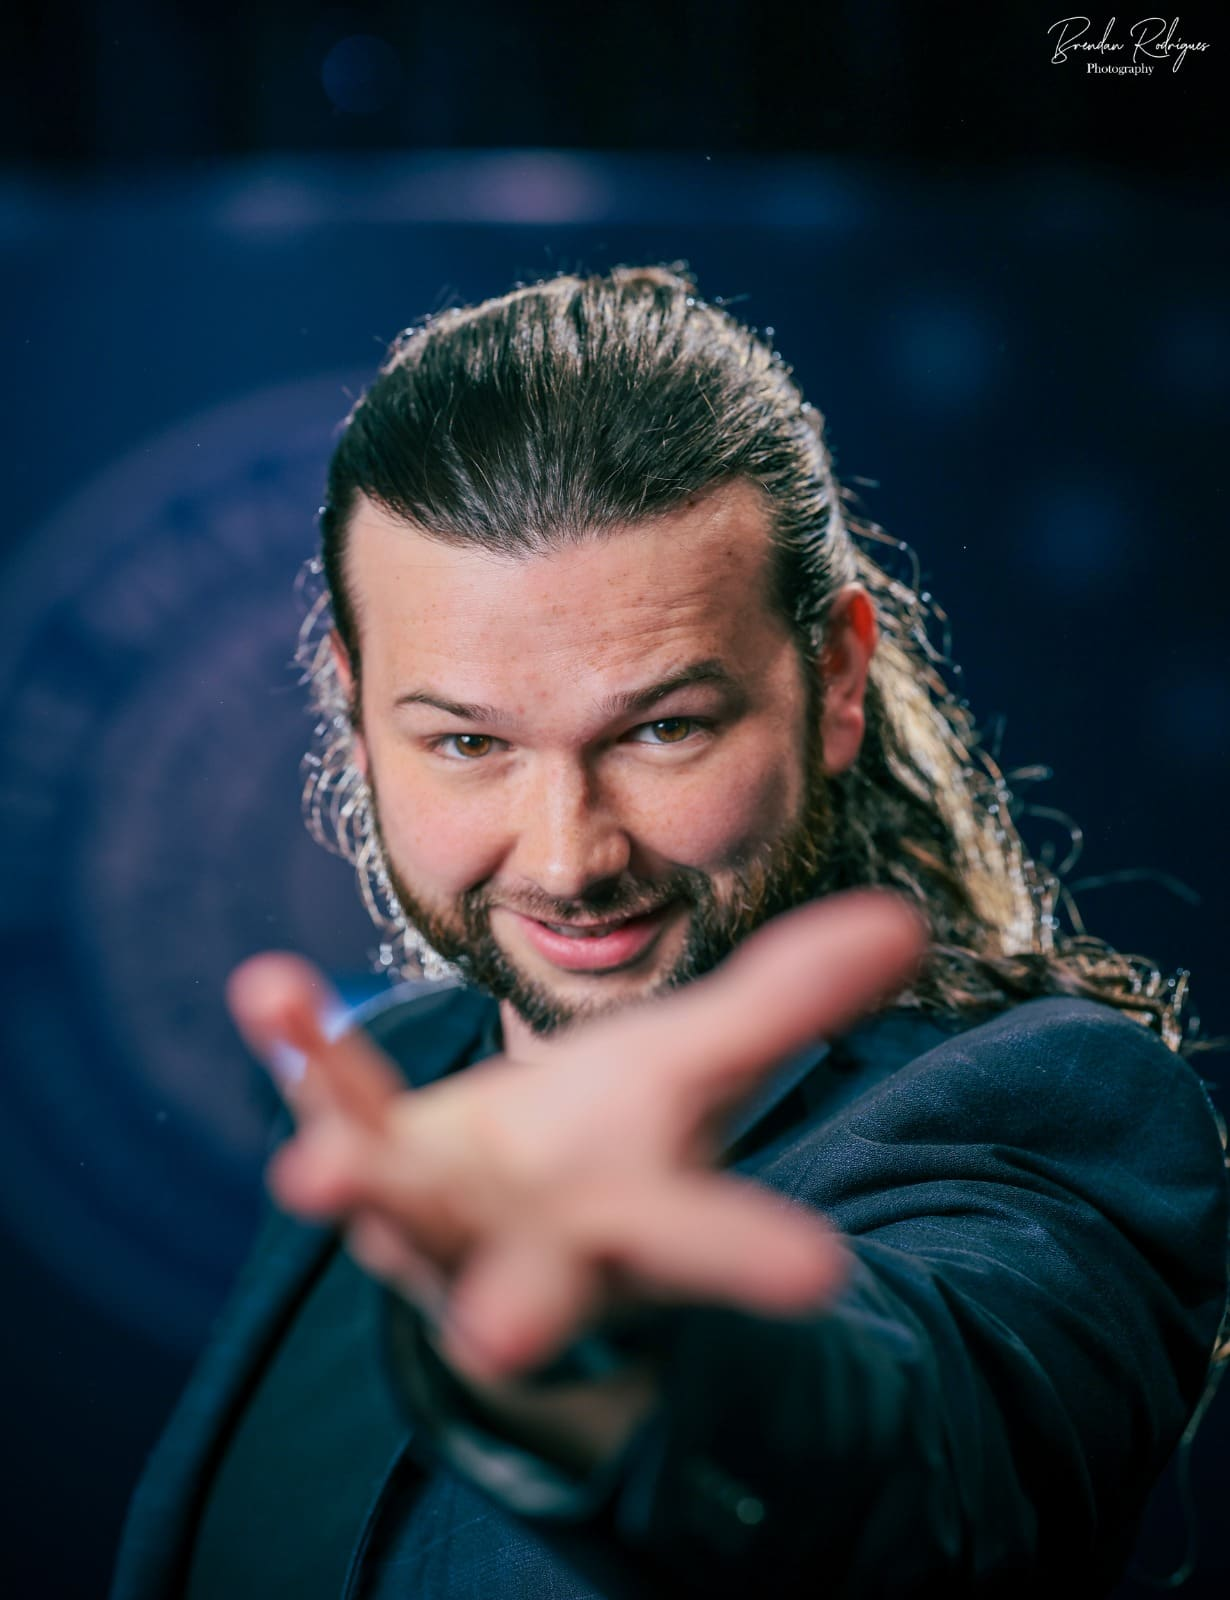
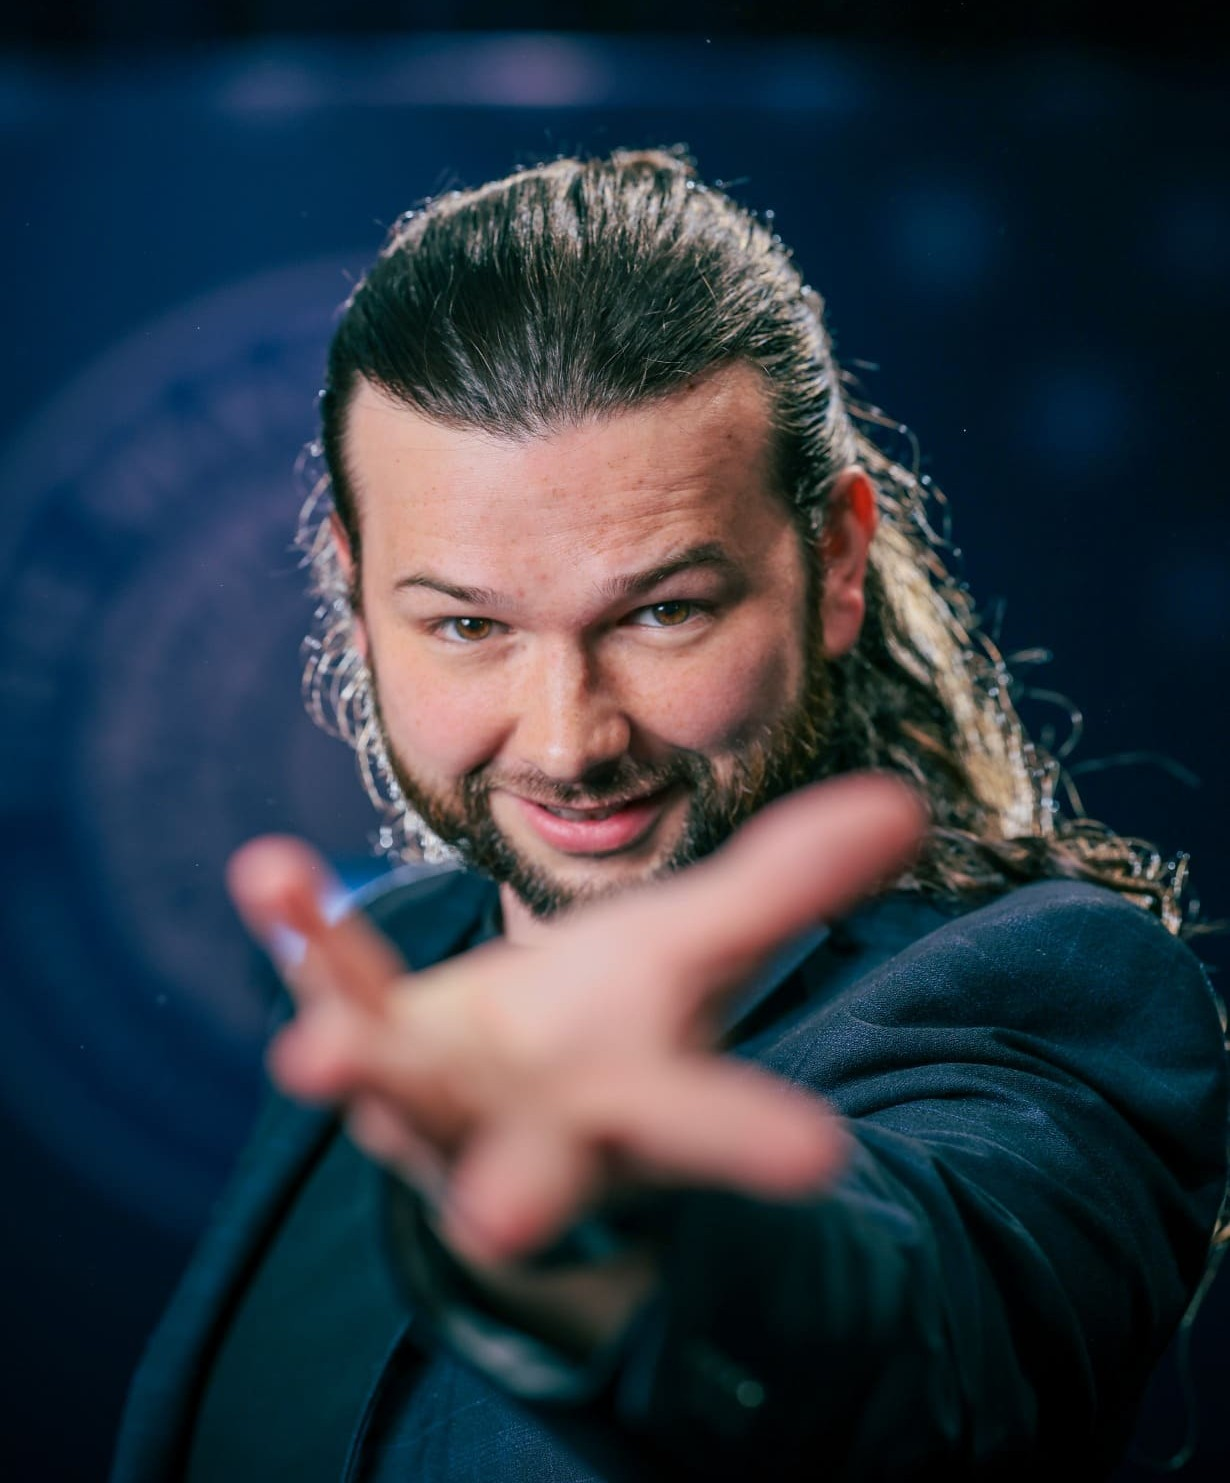
feat: update AboutSnippet layout and replace card-reveal with wedding card image

diff --git a/components/AboutSnippet.vue b/components/AboutSnippet.vue
@@ -2,14 +2,6 @@
   <v-sheet class="py-16" color="white">
     <v-container>
       <v-row align="center">
-        <v-col cols="12" md="5" class="mb-8 mb-md-0">
-          <v-img
-            src="/promo-reaching.jpg"
-            height="500"
-            cover
-            class="about-photo elevation-6"
-          />
-        </v-col>
         <v-col cols="12" md="6" offset-md="1">
           <div class="overline accent--text mb-2 font-weight-bold">
             Member of The Magic Circle
@@ -36,6 +28,14 @@
           <v-btn outlined color="accent" nuxt to="/about">
             Learn more about Callum
           </v-btn>
+        </v-col>
+        <v-col cols="12" md="5" class="mb-8 mb-md-0">
+          <v-img
+            src="/promo-reaching.jpg"
+            height="500"
+            cover
+            class="about-photo elevation-6"
+          />
         </v-col>
       </v-row>
     </v-container>

diff --git a/pages/index.vue b/pages/index.vue
@@ -68,7 +68,6 @@
       </v-sheet>
 
       <about-snippet />
-      <card-reveal />
 
       <v-sheet color="grey lighten-4" class="py-14">
         <v-container>
@@ -194,7 +193,7 @@ export default defineComponent({
         subtitle: 'Corporate Magician',
       },
       {
-        src: require('@/static/square/magicShowcase.jpg'),
+        src: require('@/static/square/wedding-card-reveal.jpg'),
         alt: 'Callum McClure performing walkaround magic at a birthday party near Guildford',
         hideOnXs: true,
         details: 'Birthdays, anniversaries, private dinners and garden parties — magic that works for every age in the room.',

diff --git a/layouts/default.vue b/layouts/default.vue
@@ -41,14 +41,6 @@
         <v-row>
           <v-col cols="12" class="text-center grey--text text--lighten-1 caption">
             &copy; {{ new Date().getFullYear() }} Callum McClure Magician. Member of The Magic Circle.
-            Photography by
-            <a
-              href="https://www.frames-by-brendan.com/"
-              target="_blank"
-              rel="noopener"
-              class="footer-link"
-              >Frames by Brendan</a
-            >.
           </v-col>
         </v-row>
       </v-container>
